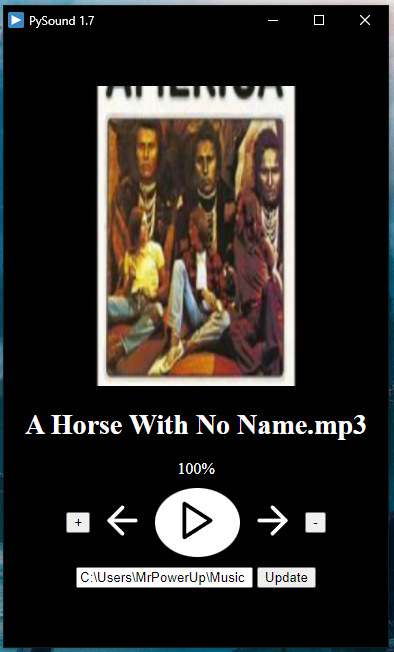
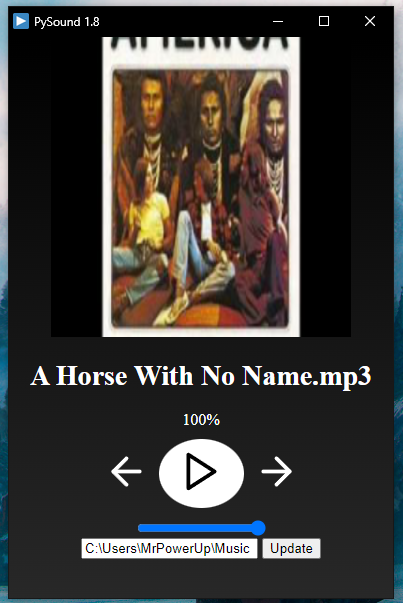
update

diff --git a/web/index.html b/web/index.html
@@ -4,7 +4,7 @@
     <meta charset="UTF-8">
     <meta http-equiv="X-UA-Compatible" content="IE=edge">
     <meta name="viewport" content="width=device-width, initial-scale=1.0">
-    <title>PySound 1.7</title>
+    <title>PySound 1.8</title>
     <link rel="apple-touch-icon" sizes="180x180" href="/apple-touch-icon.png">
     <link rel="icon" type="image/png" sizes="32x32" href="/favicon-32x32.png">
     <link rel="icon" type="image/png" sizes="16x16" href="/favicon-16x16.png">
@@ -23,9 +23,6 @@
         </div>
         <span id="volume"></span>
         <div class="controls">
-            <div onclick="upper_music()">
-                <button>+</button>
-            </div>
             <div onclick="prev_sound()">
                 <i class="feather-45" data-feather="arrow-left"></i>
             </div>
@@ -35,9 +32,9 @@
             <div onclick="next_sound()">
                 <i class="feather-45" data-feather="arrow-right"></i>
             </div>
-            <div onclick="lower_music()">
-                <button>-</button>
-            </div>
+        </div>
+        <div>
+            <input style="display:none;" class="slider" type="range" min="0" max="100" value="100" onchange="control_vol()" />
         </div>
         <div>
             <input id="path" type="text" value=""/>
@@ -53,6 +50,7 @@
         let playState = document.querySelector('.play')
         let volSpan = document.querySelector('#volume')
         let imageCover = document.querySelector('#cover')
+        let volSlider = document.querySelector('.slider')
         let isPlaying = false
         let firstPlay = false
         let volume
@@ -99,25 +97,8 @@
             isPlaying = false
             feather.replace()
         }
-        async function upper_music(){
-            volume = volume + 0.10
-            if(volume > 1.0){
-                volume = 1.0
-            }
-            if(volume < 0){
-                volume = 0
-            }
-            volSpan.innerHTML = String(Math.floor(volume*100))+"%"
-            await eel.volume_mixer(volume)()
-        }
-        async function lower_music(){
-            volume = volume - 0.10
-            if(volume > 1.0){
-                volume = 1.0
-            }
-            if(volume < 0){
-                volume = 0
-            }
+        async function control_vol(){
+            volume = parseInt(volSlider.value)/100
             volSpan.innerHTML = String(Math.floor(volume*100))+"%"
             await eel.volume_mixer(volume)()
         }
@@ -139,6 +120,7 @@
                 isPlaying = true
                 firstPlay = true
                 feather.replace()
+                volSlider.style.display = "block"
                 musicName.innerHTML = name
             }
             async function pause_music(){
@@ -166,9 +148,7 @@
         get_path()
     </script>
     <script>
-        $(document).ready(function (){
-            window.resizeTo(400, 650);
-        });
+        window.resizeTo(400,600)
     </script>
 </body>
 </html>

diff --git a/web/styles.css b/web/styles.css
@@ -1,12 +1,12 @@
 body{
-    background-color:#000000;
+    background:linear-gradient(rgb(0,0,0),rgb(40,40,40));
     margin:0;
     color: #fff;
+    height: 100vh;
 }
 
 .container{
     display: flex;
-    margin-top: 50px;
     flex:1;
     align-items:center;
     justify-content:center;

diff --git a/main.py b/main.py
@@ -90,4 +90,4 @@ def play(path,sounds):
     return sounds[0]
 
 
-eel.start('index.html', size=(400,650))
+eel.start('index.html', size=(400,600))

diff --git a/.expo/README.md b/.expo/README.md
@@ -1,0 +1,17 @@
+> Why do I have a folder named ".expo" in my project?
+
+The ".expo" folder is created when an Expo project is started using "expo start" command.
+
+> What does the "packager-info.json" file contain?
+
+The "packager-info.json" file contains port numbers and process PIDs that are used to serve the application to the mobile device/simulator.
+
+> What does the "settings.json" file contain?
+
+The "settings.json" file contains the server configuration that is used to serve the application manifest.
+
+> Should I commit the ".expo" folder?
+
+No, you should not share the ".expo" folder. It does not contain any information that is relevant for other developers working on the project, it is specific to your machine.
+
+Upon project creation, the ".expo" folder is already added to your ".gitignore" file.

diff --git a/README.md b/README.md
@@ -1,8 +1,8 @@
-# PySound 1.7
+# PySound 1.8
 
 ## Instalação das Libs
 
-python -m pip install -r requirements
+python -m pip install -r requirements.txt
 
 ### `Crirar ".exe"`
 
